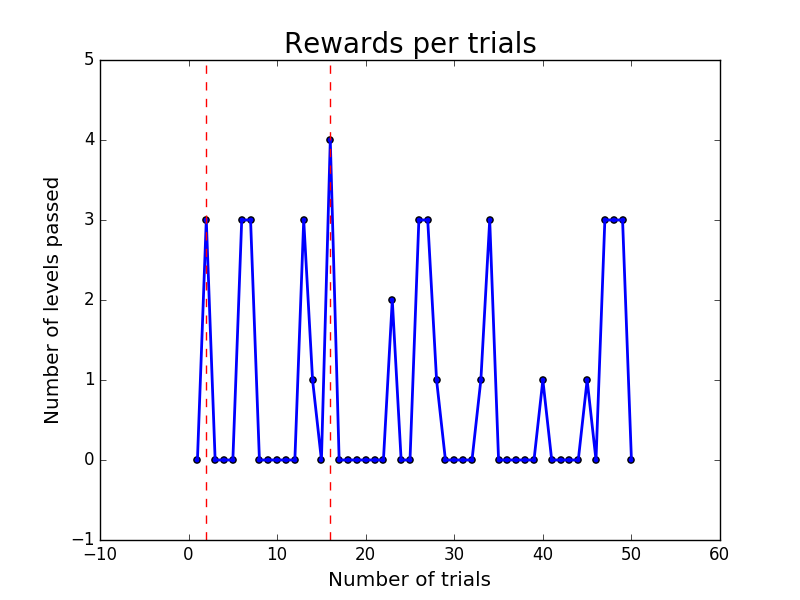
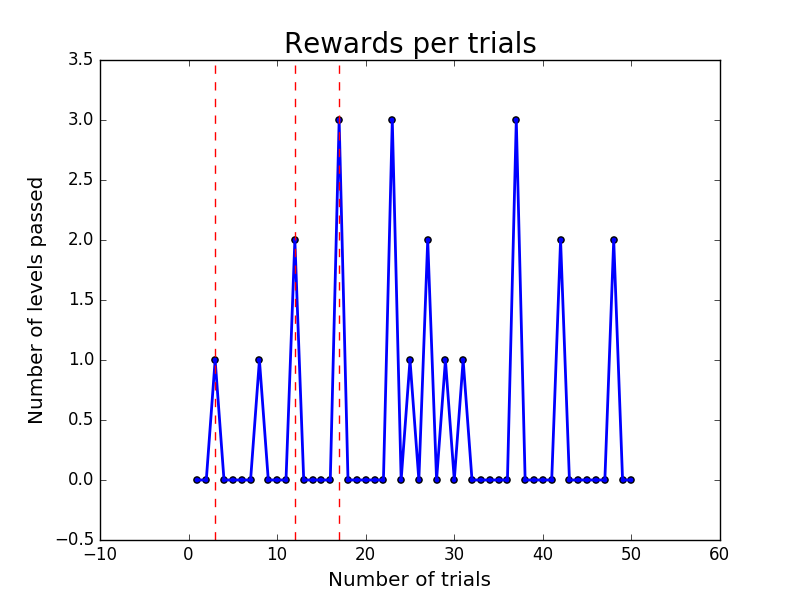
Changes

diff --git a/src/evaluation.py b/src/evaluation.py
@@ -12,25 +12,30 @@ if __name__ == '__main__':
     ab = AngryBirdsMDP()
     explorationProb = 0.3
     numTrials = 50
+    trial = 0
+    levelsPassed=[]
+    totalRewards =[]
 
-    agent = angryAgent(explorationProb=explorationProb)
+    agent = angryAgent()
     featureExtractor =agent.custom1FeatureExtractor
 
 
     rl = QLearningAlgorithm(actions=agent.getAngryBirdsActions,featureExtractor=featureExtractor,discount=ab.discount(),\
                             explorationProb=explorationProb)
-    trainingOutcomes = simulate(ab,rl,numTrials=numTrials, maxIterations=1000, verbose=False, show=False)
 
-    explorationProb = 0
-    agent = angryAgent()
-    rl.setExplorationProb(explorationProb)
-    testOutcomes = simulate(ab,rl,numTrials=5,verbose = False, show=False)
+    while trial<numTrials:
+        rl.explorationProb = explorationProb
+        simulate(ab,rl,numTrials=1, maxIterations=1000, verbose=False, show=False)
+        rl.explorationProb = 0.0
+        outcome = simulate(ab,rl,numTrials=1, maxIterations=1000, verbose=False, show=False)
+        levelsPassed = levelsPassed + outcome['levelsPassed']
+        totalRewards = totalRewards + outcome['totalRewards']
+        trial +=1
 
-    print(trainingOutcomes)
-    print(testOutcomes)
 
-    levelsPassed = trainingOutcomes['levelsPassed']
-    totalRewards = trainingOutcomes['totalRewards']
+
+    print(levelsPassed)
+    print(totalRewards)
     trials = range(1,numTrials+1)
 
 
@@ -59,91 +64,91 @@ if __name__ == '__main__':
             plt.axvline(i+1,color='r', linestyle='--')
     plt.savefig('totalRewards.png')
 
-############################################# Evaluation of Level 3
-    ab = AngryBirdsMDP(level = 3)
-    explorationProb = 0.3
-    numTrials = 50
-    agent = angryAgent()
-
-    rl = QLearningAlgorithm(actions=agent.getAngryBirdsActions,featureExtractor=featureExtractor,discount=ab.discount(),\
-                            explorationProb=explorationProb)
-    trainingOutcomes = simulate(ab,rl,numTrials=numTrials, maxIterations=1000, verbose=False, show=False)
-
-    explorationProb = 0
-    agent = angryAgent()
-    rl.setExplorationProb(explorationProb)
-    testOutcomes = simulate(ab,rl,numTrials=5,verbose = False, show=False)
-
-    print(trainingOutcomes)
-    print(testOutcomes)
-
-    totalRewards = trainingOutcomes['totalRewards']
-    trials = range(1,numTrials+1)
-
-    plt.figure()
-    plt.plot(trials,totalRewards,lw=2,color='green')
-    plt.scatter(trials,totalRewards)
-    plt.xlabel('Number of trials',fontsize='large')
-    plt.ylabel('Number of total rewards for level 3',fontsize='large')
-    plt.title('Rewards per trials', fontsize=20)
-    plt.savefig('totalRewardsL3.png')
-
-############################################# Evaluation of Level 5
-    ab = AngryBirdsMDP(level = 5)
-    explorationProb = 0.3
-    numTrials = 50
-    agent = angryAgent()
-
-    rl = QLearningAlgorithm(actions=agent.getAngryBirdsActions,featureExtractor=featureExtractor,discount=ab.discount(),\
-                            explorationProb=explorationProb)
-    trainingOutcomes = simulate(ab,rl,numTrials=numTrials, maxIterations=1000, verbose=False, show=False)
-
-    explorationProb = 0
-    agent = angryAgent()
-    rl.setExplorationProb(explorationProb)
-    testOutcomes = simulate(ab,rl,numTrials=5,verbose = False, show=False)
-
-    print(trainingOutcomes)
-    print(testOutcomes)
-    totalRewards = trainingOutcomes['totalRewards']
-    trials = range(1,numTrials+1)
-
-
-    plt.figure()
-    plt.plot(trials,totalRewards,lw=2,color='green')
-    plt.scatter(trials,totalRewards)
-    plt.xlabel('Number of trials',fontsize='large')
-    plt.ylabel('Number of total rewards for level 5',fontsize='large')
-    plt.title('Rewards per trials', fontsize=20)
-    plt.savefig('totalRewardsL5.png')
-
-############################################# Evaluation of Level 5 while training in 3
-    ab = AngryBirdsMDP(level = 7)
-    explorationProb = 0.3
-    numTrials = 50
-    agent = angryAgent()
-
-    rl = QLearningAlgorithm(actions=agent.getAngryBirdsActions,featureExtractor=featureExtractor,discount=ab.discount(),\
-                            explorationProb=explorationProb)
-    trainingOutcomes = simulate(ab,rl,numTrials=numTrials, maxIterations=1000, verbose=False, show=False)
-
-    explorationProb = 0
-    ab = AngryBirdsMDP(level = 7)
-    agent = angryAgent()
-    rl.setExplorationProb(explorationProb)
-    testOutcomes = simulate(ab,rl,numTrials=5,verbose = False  , show=False)
-
-    print(trainingOutcomes)
-    print(testOutcomes)
-    totalRewards = trainingOutcomes['totalRewards']
-    trials = range(1,numTrials+1)
-
-
-    plt.figure()
-    plt.plot(trials,totalRewards,lw=2,color='green')
-    plt.scatter(trials,totalRewards)
-    plt.xlabel('Number of trials',fontsize='large')
-    plt.ylabel('Number of total rewards for level 7',fontsize='large')
-    plt.title('Rewards per trials', fontsize=20)
-    plt.savefig('totalRewardsL7.png')
-
+# ############################################# Evaluation of Level 3
+#     ab = AngryBirdsMDP(level = 3)
+#     explorationProb = 0.3
+#     numTrials = 50
+#     agent = angryAgent()
+#
+#     rl = QLearningAlgorithm(actions=agent.getAngryBirdsActions,featureExtractor=featureExtractor,discount=ab.discount(),\
+#                             explorationProb=explorationProb)
+#     trainingOutcomes = simulate(ab,rl,numTrials=numTrials, maxIterations=1000, verbose=False, show=False)
+#
+#     explorationProb = 0
+#     agent = angryAgent()
+#     rl.setExplorationProb(explorationProb)
+#     testOutcomes = simulate(ab,rl,numTrials=5,verbose = False, show=False)
+#
+#     print(trainingOutcomes)
+#     print(testOutcomes)
+#
+#     totalRewards = trainingOutcomes['totalRewards']
+#     trials = range(1,numTrials+1)
+#
+#     plt.figure()
+#     plt.plot(trials,totalRewards,lw=2,color='green')
+#     plt.scatter(trials,totalRewards)
+#     plt.xlabel('Number of trials',fontsize='large')
+#     plt.ylabel('Number of total rewards for level 3',fontsize='large')
+#     plt.title('Rewards per trials', fontsize=20)
+#     plt.savefig('totalRewardsL3.png')
+#
+# ############################################# Evaluation of Level 5
+#     ab = AngryBirdsMDP(level = 5)
+#     explorationProb = 0.3
+#     numTrials = 50
+#     agent = angryAgent()
+#
+#     rl = QLearningAlgorithm(actions=agent.getAngryBirdsActions,featureExtractor=featureExtractor,discount=ab.discount(),\
+#                             explorationProb=explorationProb)
+#     trainingOutcomes = simulate(ab,rl,numTrials=numTrials, maxIterations=1000, verbose=False, show=False)
+#
+#     explorationProb = 0
+#     agent = angryAgent()
+#     rl.setExplorationProb(explorationProb)
+#     testOutcomes = simulate(ab,rl,numTrials=5,verbose = False, show=False)
+#
+#     print(trainingOutcomes)
+#     print(testOutcomes)
+#     totalRewards = trainingOutcomes['totalRewards']
+#     trials = range(1,numTrials+1)
+#
+#
+#     plt.figure()
+#     plt.plot(trials,totalRewards,lw=2,color='green')
+#     plt.scatter(trials,totalRewards)
+#     plt.xlabel('Number of trials',fontsize='large')
+#     plt.ylabel('Number of total rewards for level 5',fontsize='large')
+#     plt.title('Rewards per trials', fontsize=20)
+#     plt.savefig('totalRewardsL5.png')
+#
+# ############################################# Evaluation of Level 5 while training in 3
+#     ab = AngryBirdsMDP(level = 7)
+#     explorationProb = 0.3
+#     numTrials = 50
+#     agent = angryAgent()
+#
+#     rl = QLearningAlgorithm(actions=agent.getAngryBirdsActions,featureExtractor=featureExtractor,discount=ab.discount(),\
+#                             explorationProb=explorationProb)
+#     trainingOutcomes = simulate(ab,rl,numTrials=numTrials, maxIterations=1000, verbose=False, show=False)
+#
+#     explorationProb = 0
+#     ab = AngryBirdsMDP(level = 7)
+#     agent = angryAgent()
+#     rl.setExplorationProb(explorationProb)
+#     testOutcomes = simulate(ab,rl,numTrials=5,verbose = False  , show=False)
+#
+#     print(trainingOutcomes)
+#     print(testOutcomes)
+#     totalRewards = trainingOutcomes['totalRewards']
+#     trials = range(1,numTrials+1)
+#
+#
+#     plt.figure()
+#     plt.plot(trials,totalRewards,lw=2,color='green')
+#     plt.scatter(trials,totalRewards)
+#     plt.xlabel('Number of trials',fontsize='large')
+#     plt.ylabel('Number of total rewards for level 7',fontsize='large')
+#     plt.title('Rewards per trials', fontsize=20)
+#     plt.savefig('totalRewardsL7.png')
+#

diff --git a/src/GameAgent.py b/src/GameAgent.py
@@ -195,7 +195,6 @@ class angryAgent:
         while size > minsize:
             features += self.gridFeatureExtractor(state, action, size=size, shifted=shifted, type=type, count=count)
             size /= 2
-        print 'features', features
         return features
 
     def custom1FeatureExtractor(self, state, action):
